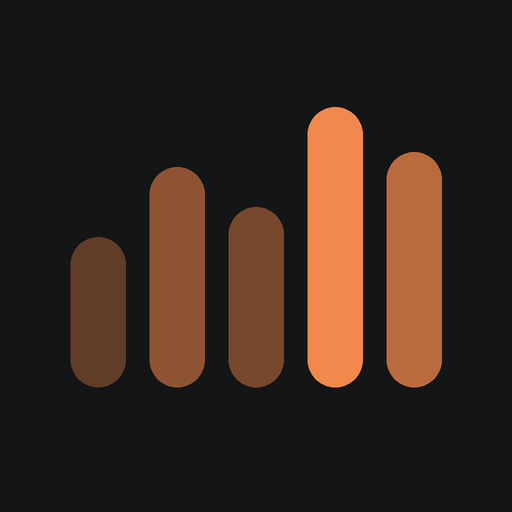
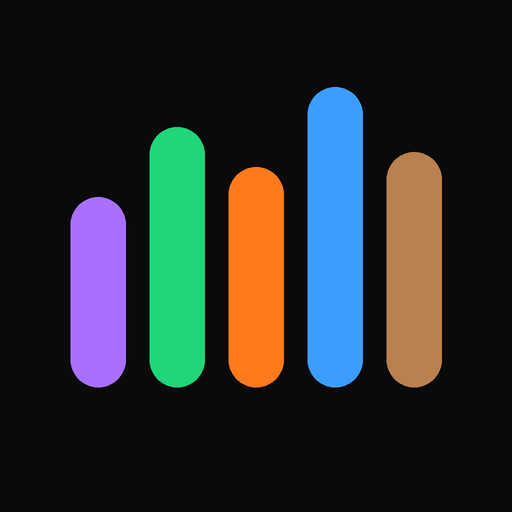
Add files via upload

diff --git a/styles.css b/styles.css
@@ -2,17 +2,18 @@
    Colores y tipografía de toda la app. Cambiando estos valores
    cambia el aspecto de todas las pestañas a la vez. */
 :root {
-  --fondo: #141516;        /* gris casi negro */
-  --papel: #1D1F21;        /* tarjetas */
-  --papel-2: #26292C;      /* elementos sobre tarjetas */
-  --tinta: #EDEAE4;        /* texto principal, blanco cálido */
-  --tinta-suave: #8D9194;  /* texto secundario */
-  --linea: #2C2F32;
-  --naranja: #F2884B;      /* color de acento */
-  --naranja-suave: rgba(242, 136, 75, 0.14);
+  --fondo: #0A0A0B;        /* casi negro, mate */
+  --papel: #141416;        /* tarjetas */
+  --papel-2: #1E1E21;      /* elementos sobre tarjetas */
+  --tinta: #F6F4F0;        /* texto principal */
+  --tinta-suave: #A2A2A8;  /* texto secundario */
+  --linea: #25252A;
+  --rojo: #FF4D5E;         /* negativos y avisos */
+  --naranja: #FF7A1A;      /* color de acento: lo cambia cada pantalla (ver PANTALLAS en app.js) */
+  --naranja-suave: rgba(255, 122, 26, 0.16);
   --titulos: "Instrument Serif", "Iowan Old Style", Georgia, serif;
   --texto: "Manrope", -apple-system, BlinkMacSystemFont, "Segoe UI", sans-serif;
-  --barra-alto: 64px;
+  --barra-alto: 0px;
   color-scheme: dark;
 }
 
@@ -31,12 +32,12 @@ body {
 /* Cabecera */
 .top {
   position: sticky; top: 0; z-index: 5;
-  display: flex; align-items: flex-end; justify-content: space-between;
+  display: flex; align-items: center; gap: 12px;
   padding: calc(env(safe-area-inset-top, 0px) + 18px) 22px 14px;
-  background: linear-gradient(var(--fondo) 75%, rgba(20, 21, 22, 0));
+  background: linear-gradient(var(--fondo) 78%, rgba(10, 10, 11, 0));
 }
 .top h1 {
-  margin: 0;
+  margin: 0; flex: 1; min-width: 0;
   font-family: var(--titulos);
   font-weight: 400;
   font-size: 42px; line-height: 1; letter-spacing: -0.01em;
@@ -44,7 +45,13 @@ body {
 }
 .ajustes-btn {
   background: none; border: 0; color: var(--tinta-suave);
-  padding: 8px; margin: 0 -8px -2px 0; cursor: pointer;
+  padding: 8px; margin-right: -8px; cursor: pointer;
+}
+.menu-btn {
+  flex: none; width: 42px; height: 42px; margin-left: -6px;
+  display: grid; place-items: center;
+  background: var(--papel); border: 0; border-radius: 12px;
+  color: var(--tinta); cursor: pointer;
 }
 
 main {
@@ -52,26 +59,39 @@ main {
   max-width: 640px; margin: 0 auto;
 }
 
-/* Barra de pestañas inferior */
-.barra {
-  position: fixed; left: 0; right: 0; bottom: 0; z-index: 5;
-  display: flex; justify-content: space-around;
-  padding: 8px 6px calc(env(safe-area-inset-bottom, 0px) + 6px);
-  background: rgba(24, 25, 27, 0.88);
-  -webkit-backdrop-filter: blur(18px); backdrop-filter: blur(18px);
-  border-top: 1px solid var(--linea);
+/* Menú lateral */
+.menu-fondo {
+  position: fixed; inset: 0; z-index: 20; background: rgba(0, 0, 0, 0.6);
+  opacity: 0; pointer-events: none; transition: opacity .25s;
 }
-.barra button {
-  flex: 1; display: flex; flex-direction: column; align-items: center; gap: 4px;
-  background: none; border: 0; padding: 4px 0 6px; cursor: pointer;
-  color: var(--tinta-suave); font: inherit; font-size: 10.5px; font-weight: 600;
-  letter-spacing: 0.01em; position: relative;
+.menu {
+  position: fixed; top: 0; bottom: 0; left: 0; z-index: 21;
+  width: min(80vw, 300px);
+  display: flex; flex-direction: column;
+  padding: calc(env(safe-area-inset-top, 0px) + 22px) 14px calc(env(safe-area-inset-bottom, 0px) + 18px);
+  background: #101012;
+  border-right: 1px solid var(--linea);
+  transform: translateX(-102%); transition: transform .28s cubic-bezier(.2, .8, .2, 1);
 }
-.barra button svg { width: 23px; height: 23px; stroke-width: 1.7; }
-.barra button[aria-current="page"] { color: var(--naranja); }
-.barra button[aria-current="page"]::after {
-  content: ""; position: absolute; bottom: -2px;
-  width: 4px; height: 4px; border-radius: 50%; background: var(--naranja);
+.menu-abierto .menu { transform: none; }
+.menu-abierto .menu-fondo { opacity: 1; pointer-events: auto; }
+.menu-abierto { overflow: hidden; }
+.menu-marca {
+  font-family: var(--titulos); font-size: 34px; color: var(--tinta);
+  padding: 0 10px 22px;
+}
+#menuLista { display: flex; flex-direction: column; gap: 4px; }
+#menuLista button {
+  display: flex; align-items: center; gap: 14px;
+  width: 100%; padding: 14px 12px; border: 0; border-radius: 14px;
+  background: none; color: var(--tinta); font: inherit; font-size: 17px; font-weight: 600;
+  text-align: left; cursor: pointer;
+}
+#menuLista button svg { width: 24px; height: 24px; color: var(--c); flex: none; }
+#menuLista button[aria-current="page"] { background: var(--c-suave); color: var(--c); }
+.menu-copias {
+  margin-top: auto; background: none; border: 0; color: var(--tinta-suave);
+  font: inherit; font-size: 14px; font-weight: 600; text-align: left; padding: 12px; cursor: pointer;
 }
 
 /* Piezas comunes que usarán todas las pestañas */
@@ -125,3 +145,9 @@ input:focus, select:focus, textarea:focus { outline: none; border-color: var(--n
 .aviso { font-size: 14px; line-height: 1.55; color: var(--tinta-suave); margin-top: 10px; }
 
 @media (prefers-reduced-motion: reduce) { * { transition: none !important; } }
+
+/* Rojo más vivo para negativos y avisos en todas las pantallas */
+body .pt-neg, body .pt-fila .sub.pt-neg, body .pt-peligro, body .gy-peligro, body .oc-peligro { color: var(--rojo); }
+body .al-barra div.pasado { background: var(--rojo); }
+body .gy-res.D { background: rgba(255, 77, 94, 0.16); color: var(--rojo); }
+@media (prefers-reduced-motion: reduce) { .menu, .menu-fondo { transition: none; } }

diff --git a/app.js b/app.js
@@ -1,12 +1,22 @@
 /*
   NÚCLEO DE LA APP
   - Guarda los datos en el propio iPhone (cada pestaña en su propio "cajón").
-  - Monta la barra de pestañas y cambia entre ellas.
+  - Monta el menú lateral y cambia entre pantallas.
   - Exporta e importa copias de seguridad.
   Normalmente no hará falta tocar este archivo al trabajar en una pestaña.
 */
 const HiperApp = (() => {
   const CLAVE = "hiperapp-datos";
+
+  // NOMBRE Y COLOR DE CADA PANTALLA (se cambian aquí, para todas a la vez)
+  const PANTALLAS = {
+    habitos:      { titulo: "Hábitos",      color: "#A970FF" },
+    patrimonio:   { titulo: "Finanzas",     color: "#1FD67A" },
+    alimentacion: { titulo: "Alimentación", color: "#FF7A1A" },
+    gimnasio:     { titulo: "Deporte",      color: "#3B9EFF" },
+    ocio:         { titulo: "Ocio",         color: "#B8814F" }
+  };
+  const suave = (hex, a) => { const n = parseInt(hex.slice(1), 16); return `rgba(${n >> 16}, ${(n >> 8) & 255}, ${n & 255}, ${a})`; };
   const pestanas = [];
   let datos = {};
 
@@ -27,14 +37,17 @@ const HiperApp = (() => {
     };
   }
 
-  function registrar(p) { pestanas.push(p); }
+  function registrar(p) { Object.assign(p, PANTALLAS[p.id] || {}); p.nombreCorto = p.titulo; pestanas.push(p); }
 
   function mostrar(id) {
     const p = pestanas.find(x => x.id === id) || pestanas[0];
-    document.documentElement.style.setProperty("--acento", p.color);
+    const raizCss = document.documentElement.style;
+    raizCss.setProperty("--naranja", p.color);        // color de acento que usan todas las pantallas
+    raizCss.setProperty("--naranja-suave", suave(p.color, 0.16));
+    raizCss.setProperty("--acento", p.color);
     document.getElementById("titulo").textContent = p.titulo;
     document.title = p.titulo;
-    document.querySelectorAll(".barra button").forEach(b => {
+    document.querySelectorAll("#menuLista button").forEach(b => {
       if (b.dataset.id === p.id) b.setAttribute("aria-current", "page");
       else b.removeAttribute("aria-current");
     });
@@ -45,16 +58,31 @@ const HiperApp = (() => {
     try { localStorage.setItem("hiperapp-ultima", p.id); } catch (e) {}
   }
 
-  function montarBarra() {
-    const barra = document.getElementById("barra");
+  // ---------- Menú lateral ----------
+  function abrirMenu(abrir) {
+    document.body.classList.toggle("menu-abierto", abrir);
+    document.getElementById("menu").setAttribute("aria-hidden", !abrir);
+    document.getElementById("btnMenu").setAttribute("aria-expanded", abrir);
+  }
+  function montarMenu() {
+    const lista = document.getElementById("menuLista");
     pestanas.forEach(p => {
       const b = document.createElement("button");
       b.dataset.id = p.id;
-      b.style.setProperty("--tab-color", p.color);
-      b.innerHTML = p.icono + "<span>" + p.nombreCorto + "</span>";
-      b.addEventListener("click", () => { location.hash = p.id; });
-      barra.appendChild(b);
+      b.style.setProperty("--c", p.color);
+      b.style.setProperty("--c-suave", suave(p.color, 0.14));
+      b.innerHTML = p.icono + "<span>" + p.titulo + "</span>";
+      b.addEventListener("click", () => { abrirMenu(false); location.hash = p.id; });
+      lista.appendChild(b);
     });
+    document.getElementById("btnMenu").onclick = () => abrirMenu(true);
+    document.getElementById("menuFondo").onclick = () => abrirMenu(false);
+    document.getElementById("btnCopias").onclick = () => { abrirMenu(false); abrirAjustes(); };
+    // Deslizar hacia la izquierda cierra el menú
+    let x0 = null;
+    const menu = document.getElementById("menu");
+    menu.addEventListener("touchstart", e => { x0 = e.touches[0].clientX; }, { passive: true });
+    menu.addEventListener("touchend", e => { if (x0 !== null && x0 - e.changedTouches[0].clientX > 50) abrirMenu(false); x0 = null; });
   }
 
   // ---------- Copias de seguridad ----------
@@ -108,7 +136,7 @@ const HiperApp = (() => {
 
   function iniciar() {
     cargar();
-    montarBarra();
+    montarMenu();
     document.getElementById("btnAjustes").onclick = abrirAjustes;
     window.addEventListener("hashchange", () => mostrar(location.hash.slice(1)));
     let inicial = location.hash.slice(1);

diff --git a/index.html b/index.html
@@ -7,7 +7,7 @@
   <meta name="mobile-web-app-capable" content="yes">
   <meta name="apple-mobile-web-app-status-bar-style" content="black-translucent">
   <meta name="apple-mobile-web-app-title" content="Mi app">
-  <meta name="theme-color" content="#141516">
+  <meta name="theme-color" content="#0A0A0B">
   <title>Mi app</title>
   <link rel="manifest" href="manifest.json">
   <link rel="apple-touch-icon" href="icon.png">
@@ -19,6 +19,9 @@
 </head>
 <body>
   <header class="top">
+    <button class="menu-btn" id="btnMenu" aria-label="Abrir menú" aria-controls="menu" aria-expanded="false">
+      <svg viewBox="0 0 24 24" width="24" height="24" fill="none" stroke="currentColor" stroke-width="2.2" stroke-linecap="round"><path d="M4 7h16M4 12h16M4 17h10"/></svg>
+    </button>
     <h1 id="titulo">Mi app</h1>
     <button class="ajustes-btn" id="btnAjustes" aria-label="Ajustes y copias de seguridad">
       <svg viewBox="0 0 24 24" width="22" height="22" fill="none" stroke="currentColor" stroke-width="2"><circle cx="12" cy="12" r="3"/><path d="M19.4 15a1.7 1.7 0 0 0 .3 1.8l.1.1a2 2 0 1 1-2.8 2.8l-.1-.1a1.7 1.7 0 0 0-1.8-.3 1.7 1.7 0 0 0-1 1.5V21a2 2 0 1 1-4 0v-.1a1.7 1.7 0 0 0-1.1-1.5 1.7 1.7 0 0 0-1.8.3l-.1.1a2 2 0 1 1-2.8-2.8l.1-.1a1.7 1.7 0 0 0 .3-1.8 1.7 1.7 0 0 0-1.5-1H3a2 2 0 1 1 0-4h.1a1.7 1.7 0 0 0 1.5-1.1 1.7 1.7 0 0 0-.3-1.8l-.1-.1a2 2 0 1 1 2.8-2.8l.1.1a1.7 1.7 0 0 0 1.8.3H9a1.7 1.7 0 0 0 1-1.5V3a2 2 0 1 1 4 0v.1a1.7 1.7 0 0 0 1 1.5 1.7 1.7 0 0 0 1.8-.3l.1-.1a2 2 0 1 1 2.8 2.8l-.1.1a1.7 1.7 0 0 0-.3 1.8V9a1.7 1.7 0 0 0 1.5 1H21a2 2 0 1 1 0 4h-.1a1.7 1.7 0 0 0-1.5 1z"/></svg>
@@ -27,7 +30,13 @@
 
   <main id="contenido"></main>
 
-  <nav class="barra" id="barra" aria-label="Secciones"></nav>
+  <!-- Menú lateral -->
+  <div class="menu-fondo" id="menuFondo"></div>
+  <nav class="menu" id="menu" aria-label="Secciones" aria-hidden="true">
+    <div class="menu-marca">Mi app</div>
+    <div id="menuLista"></div>
+    <button class="menu-copias" id="btnCopias">Copias de seguridad</button>
+  </nav>
 
   <!-- Núcleo: guardado de datos, copias de seguridad y navegación -->
   <script src="app.js"></script>
